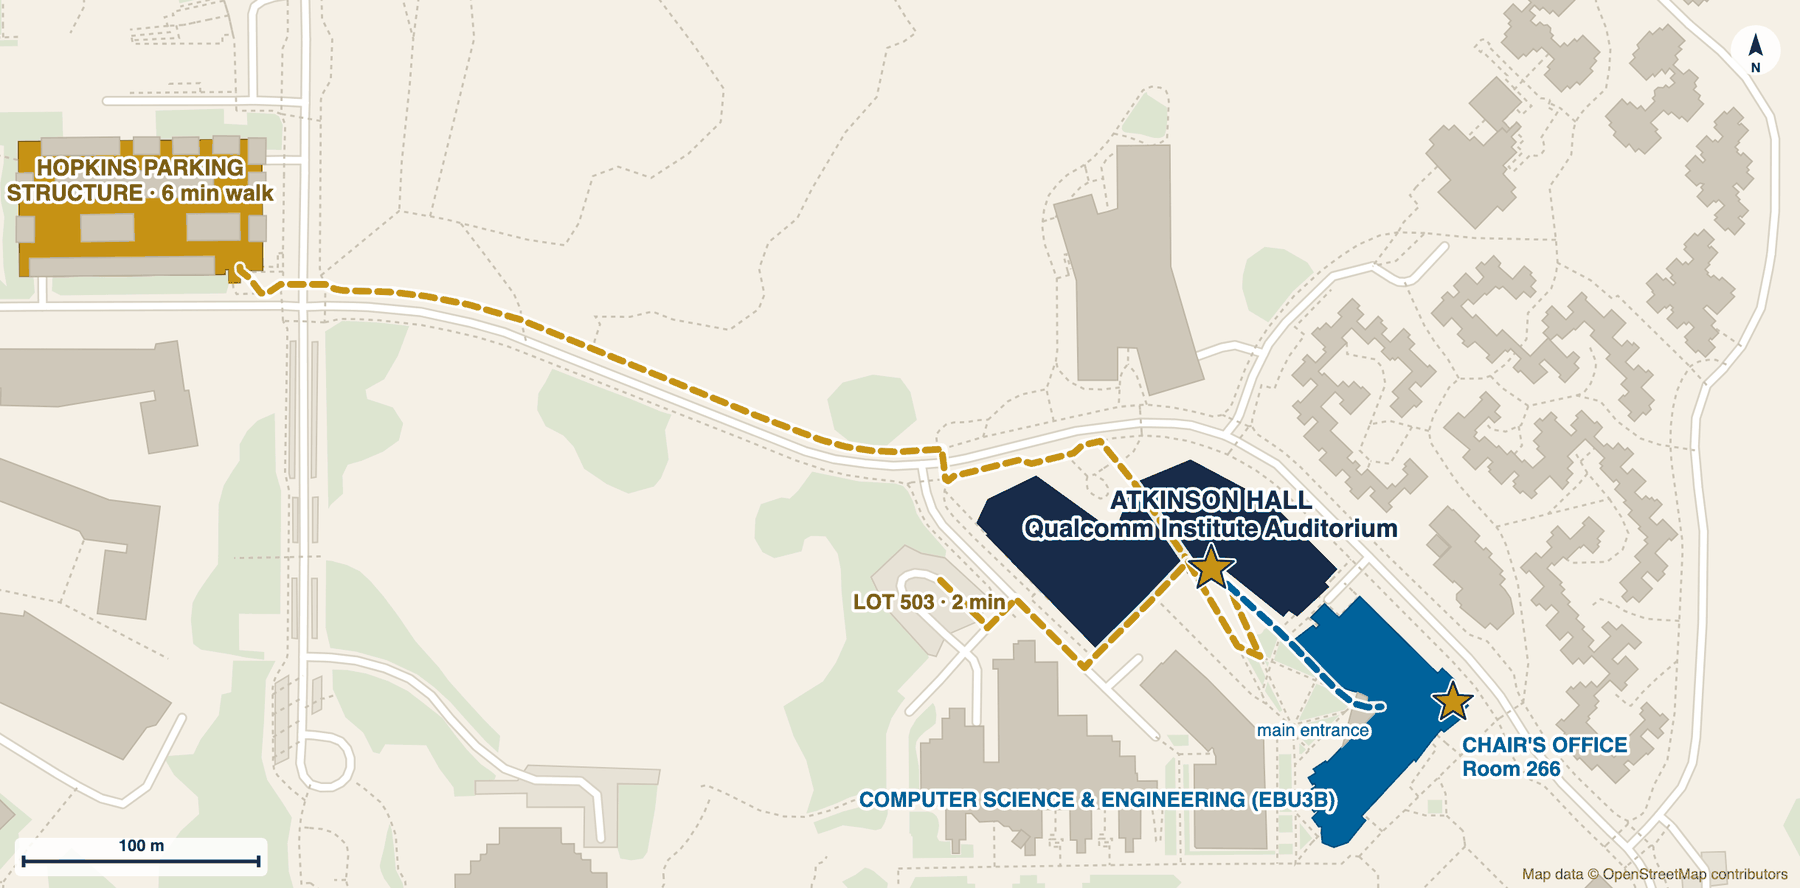
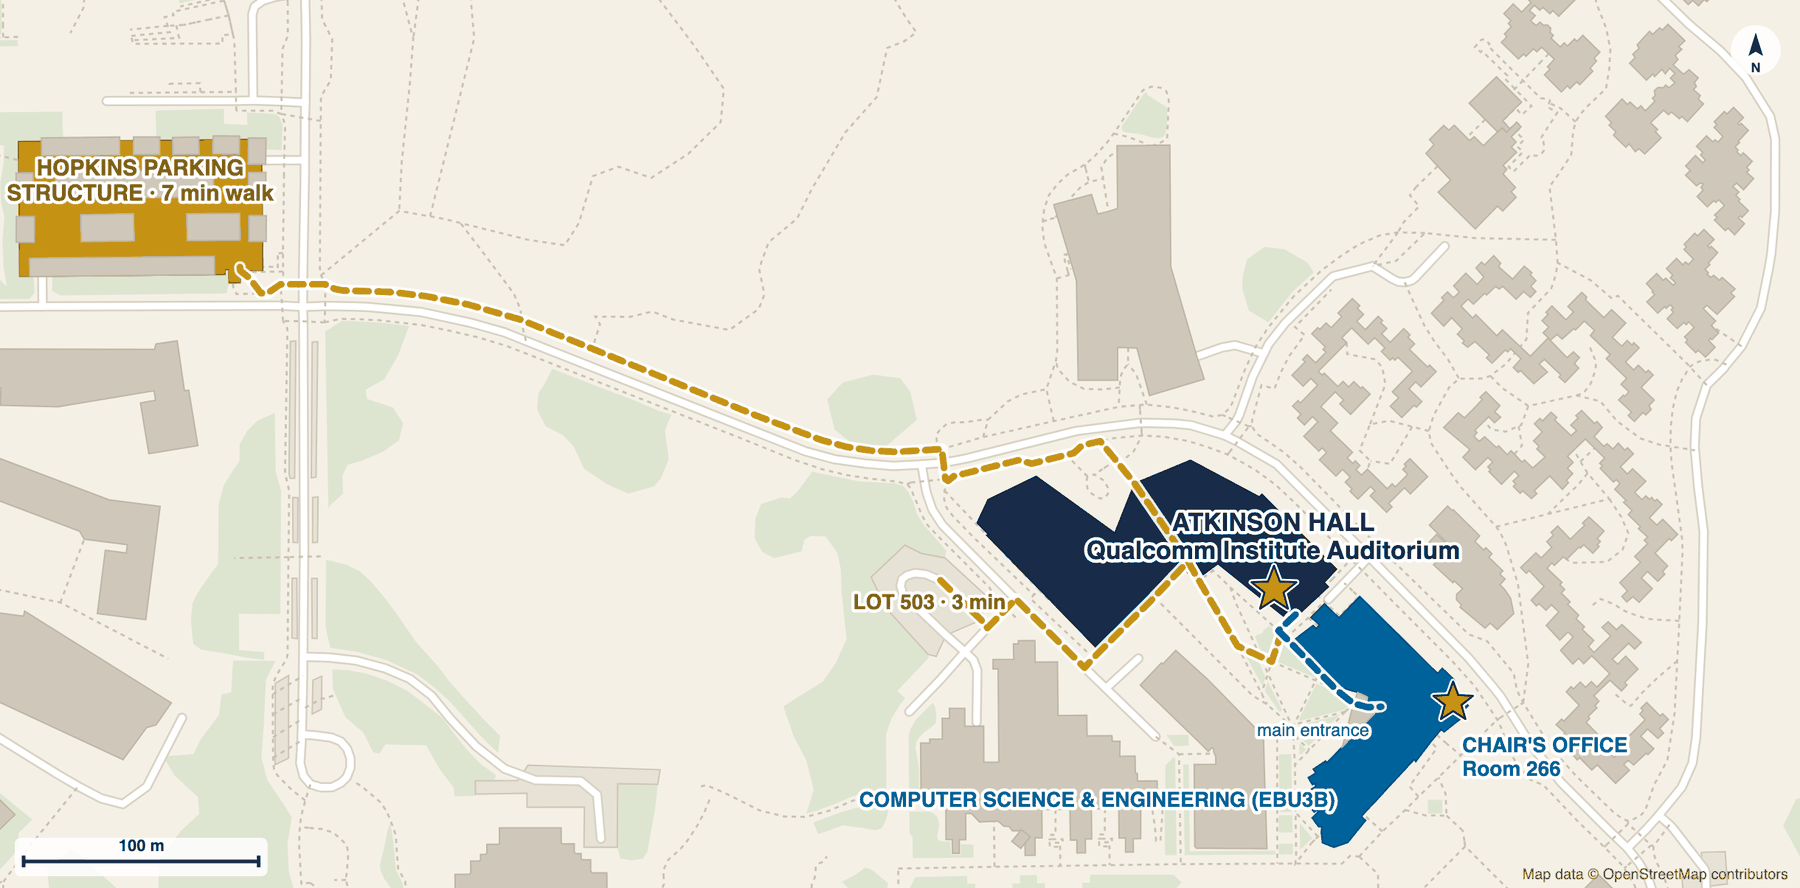
Pin the auditorium at its confirmed location
The instructor supplied two references that disagreed by 58 m: a shared Google
Maps link and a pasted lat/long. Both fall inside the Atkinson footprint, but
the pasted pair is 42 m from the Bear against the link's 82 m, matching how the
venue is described, and its precision is characteristic of a right-click
"What's here?" copy. The link's pin is Google's canonical place point for the
street address, which snaps to the address centroid rather than the click.

Routes re-run against the confirmed pin: Hopkins 546 m, Lot 503 232 m, and only
67 m from the auditorium to the CSE main entrance.

The link also yielded Atkinson's street address, 3195 Voigt Dr, which now leads
the rideshare section -- a real address beats coordinates for most drivers.

Walk-time labels on the map are now derived from the computed routes rather than
typed in, so they cannot drift from the distances printed on the page.

Changed region(s): [[0.56, 0.5473, 0.8089, 0.7601]]

diff --git a/for-speakers.md b/for-speakers.md
@@ -25,8 +25,8 @@ rideshare, and where we will meet.</p>
 
 | | Walk to the auditorium |
 |---|---|
-| **Lot 503** — small lot just west of Atkinson Hall | about **3 minutes** (250 m) |
-| **Hopkins Parking Structure** — larger, more likely to have space | about **7 minutes** (560 m) |
+| **Lot 503** — small lot just west of Atkinson Hall | about **3 minutes** (230 m) |
+| **Hopkins Parking Structure** — larger, more likely to have space | about **7 minutes** (545 m) |
 
 Park in spaces marked with a **white V** (visitor). Pay through the **ParkMobile**
 app using **zone 4752**, or at the pay kiosk by the **7th-floor elevators** in the
@@ -38,14 +38,15 @@ change — please confirm at the kiosk when you arrive.*
 
 ## Arriving by Uber or Lyft
 
-Set your destination to **Atkinson Hall, UC San Diego**. Campus building names
-confuse some drivers, so this link drops a pin on the exact spot:
+Atkinson Hall's street address is **3195 Voigt Dr, La Jolla, CA 92093** — that
+works in Uber, Lyft and any map app. Do *not* use the campus mailing address,
+9500 Gilman Drive; it will drop you on the far side of campus.
 
-**[Navigate to Atkinson Hall &rarr;](https://www.google.com/maps/dir/?api=1&destination=32.8824734%2C-117.2347302)**
+This link drops a pin directly on the auditorium:
 
-You can also paste the coordinates `32.8824734, -117.2347302` straight into Uber
-or Lyft. The campus mailing address, 9500 Gilman Drive, will *not* get you to the
-right building.
+**[Navigate to the auditorium &rarr;](https://www.google.com/maps/dir/?api=1&destination=32.8823428%2C-117.2341962)**
+
+Or paste the coordinates `32.8823428, -117.2341962` straight into the app.
 
 ## Where we'll meet
 

diff --git a/finding-the-seminar.md b/finding-the-seminar.md
@@ -25,7 +25,8 @@ from Geisel Library. If you already know the **Computer Science & Engineering
 building (EBU3B)**, Atkinson Hall is right next door to the northwest — the two
 are officially EBU3a and EBU3b.
 
-The **bear sculpture** is the easiest landmark. The auditorium is on the ground floor.
+The **bear sculpture** is the easiest landmark — the auditorium is on the ground
+floor, a few steps from it. The building's street address is 3195 Voigt Dr.
 
 **No food or drink other than water** is allowed in the auditorium.
 
